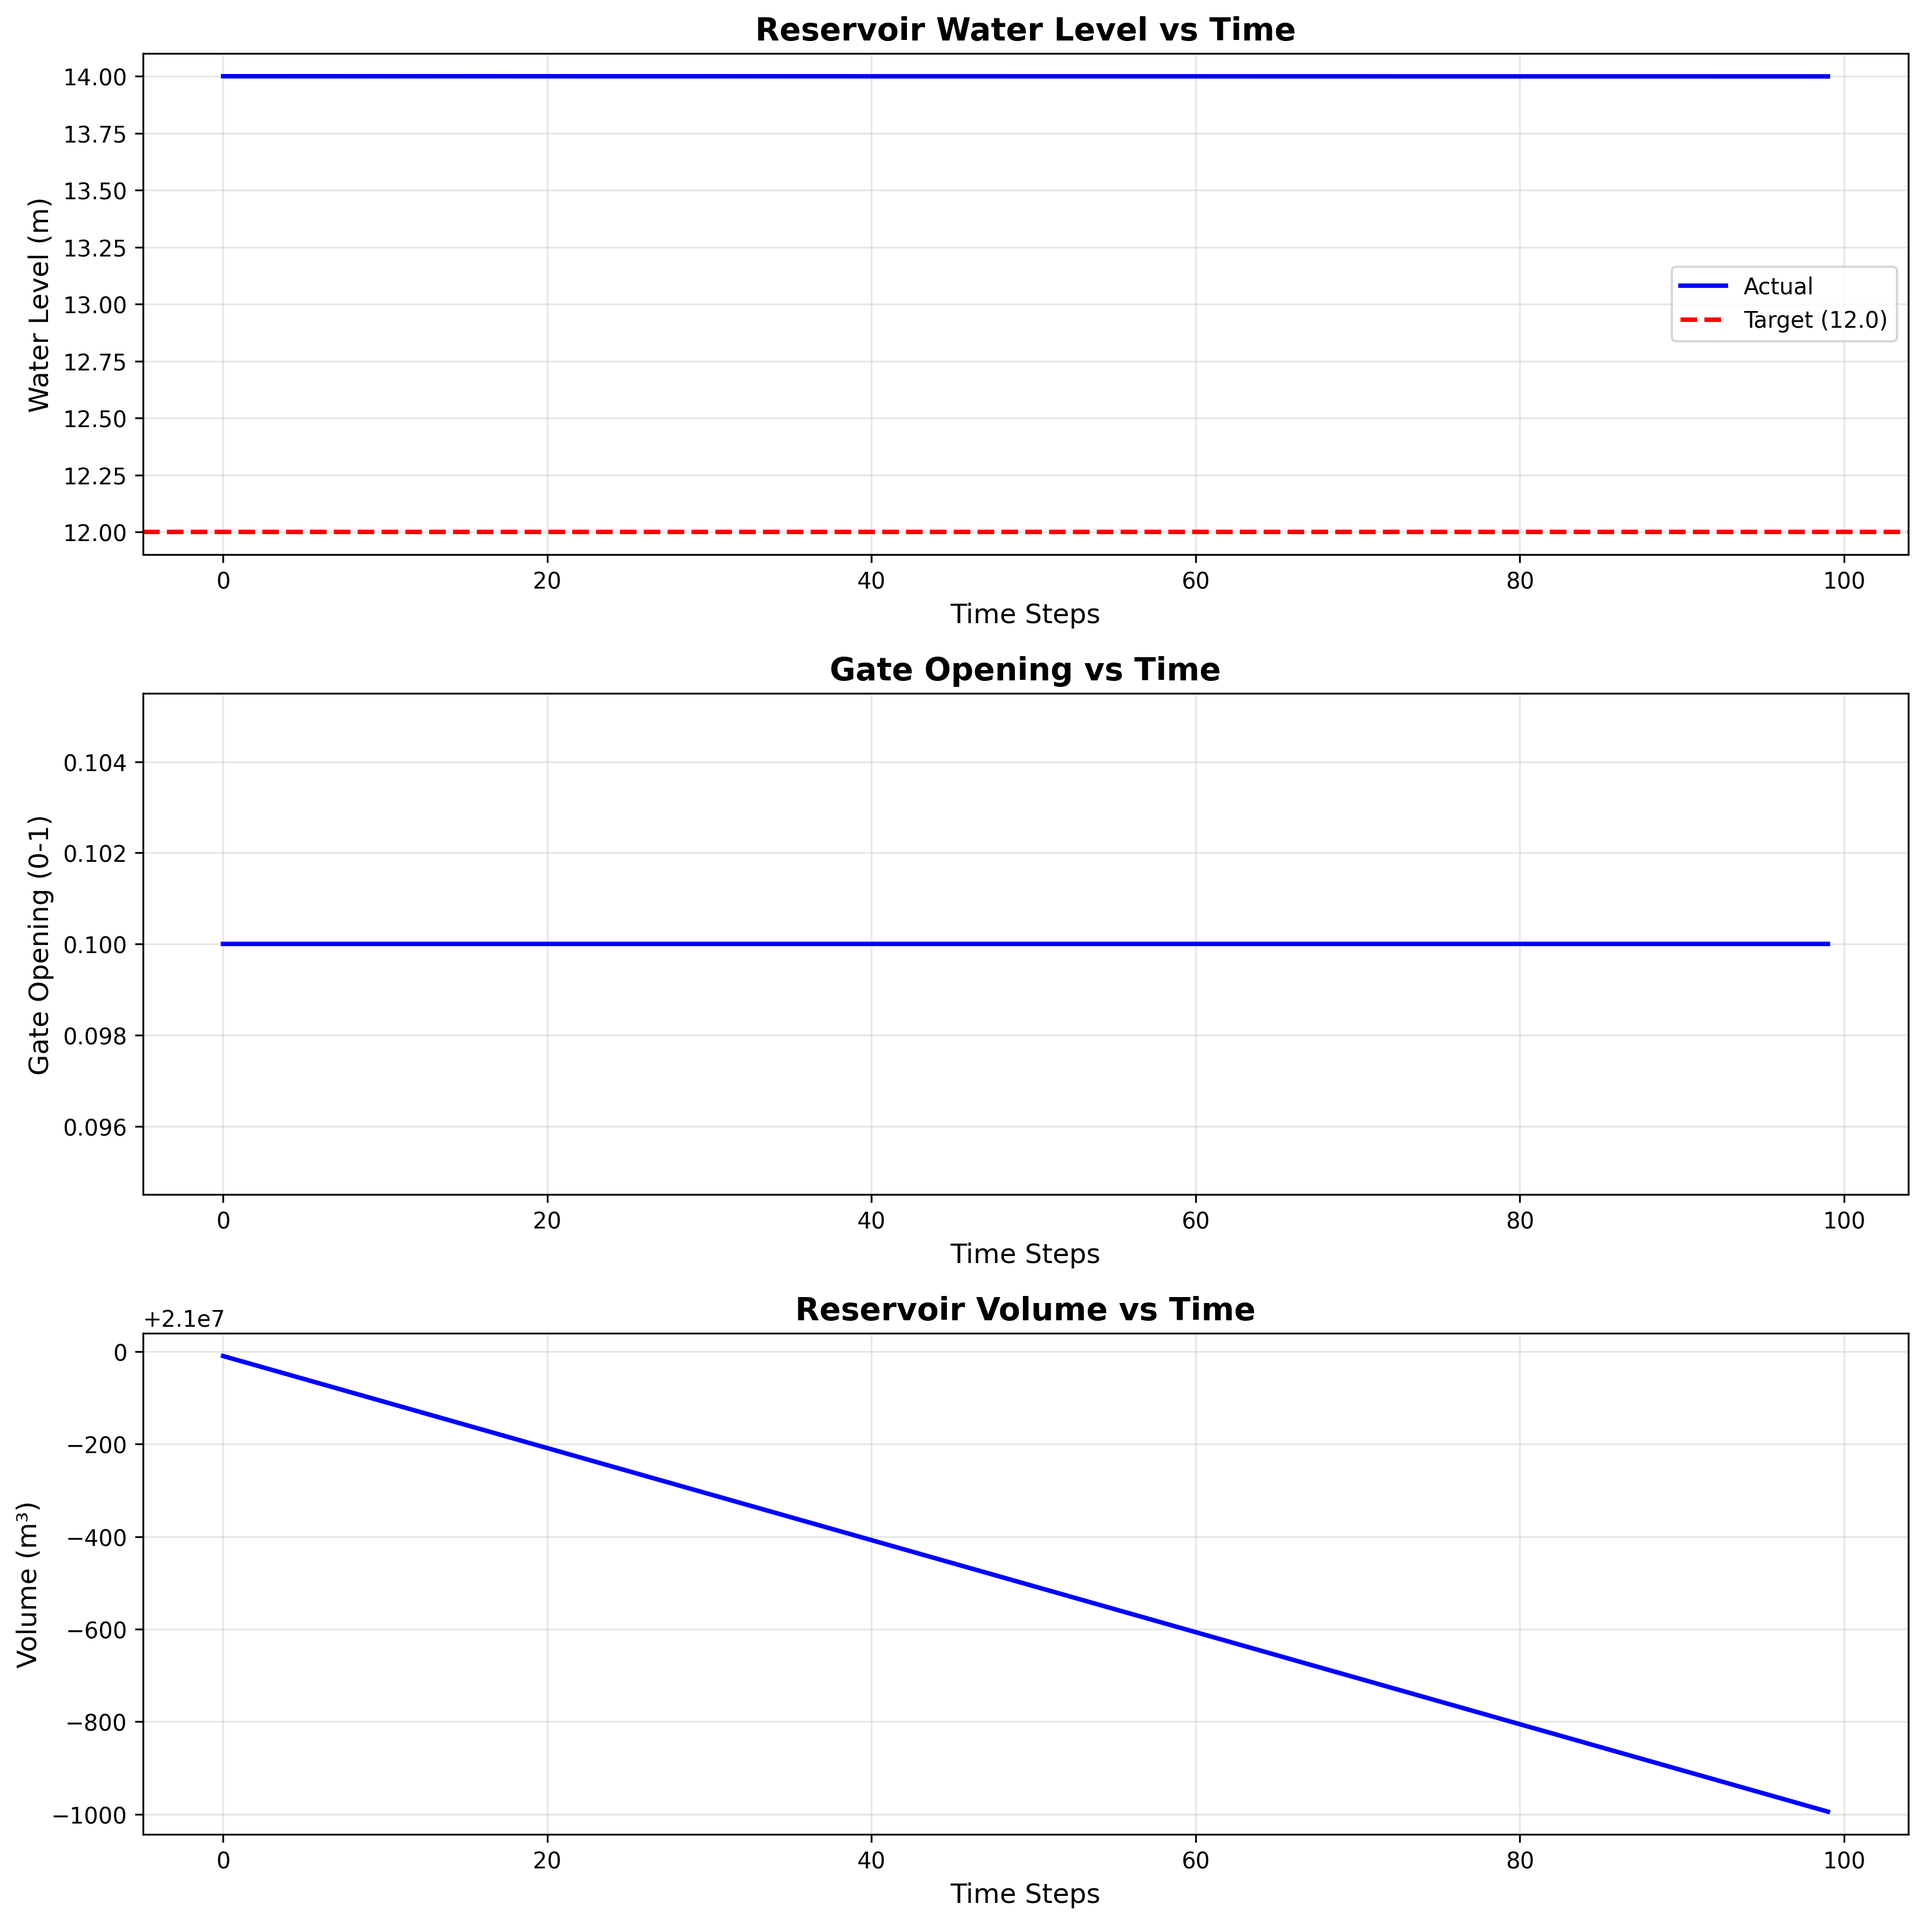
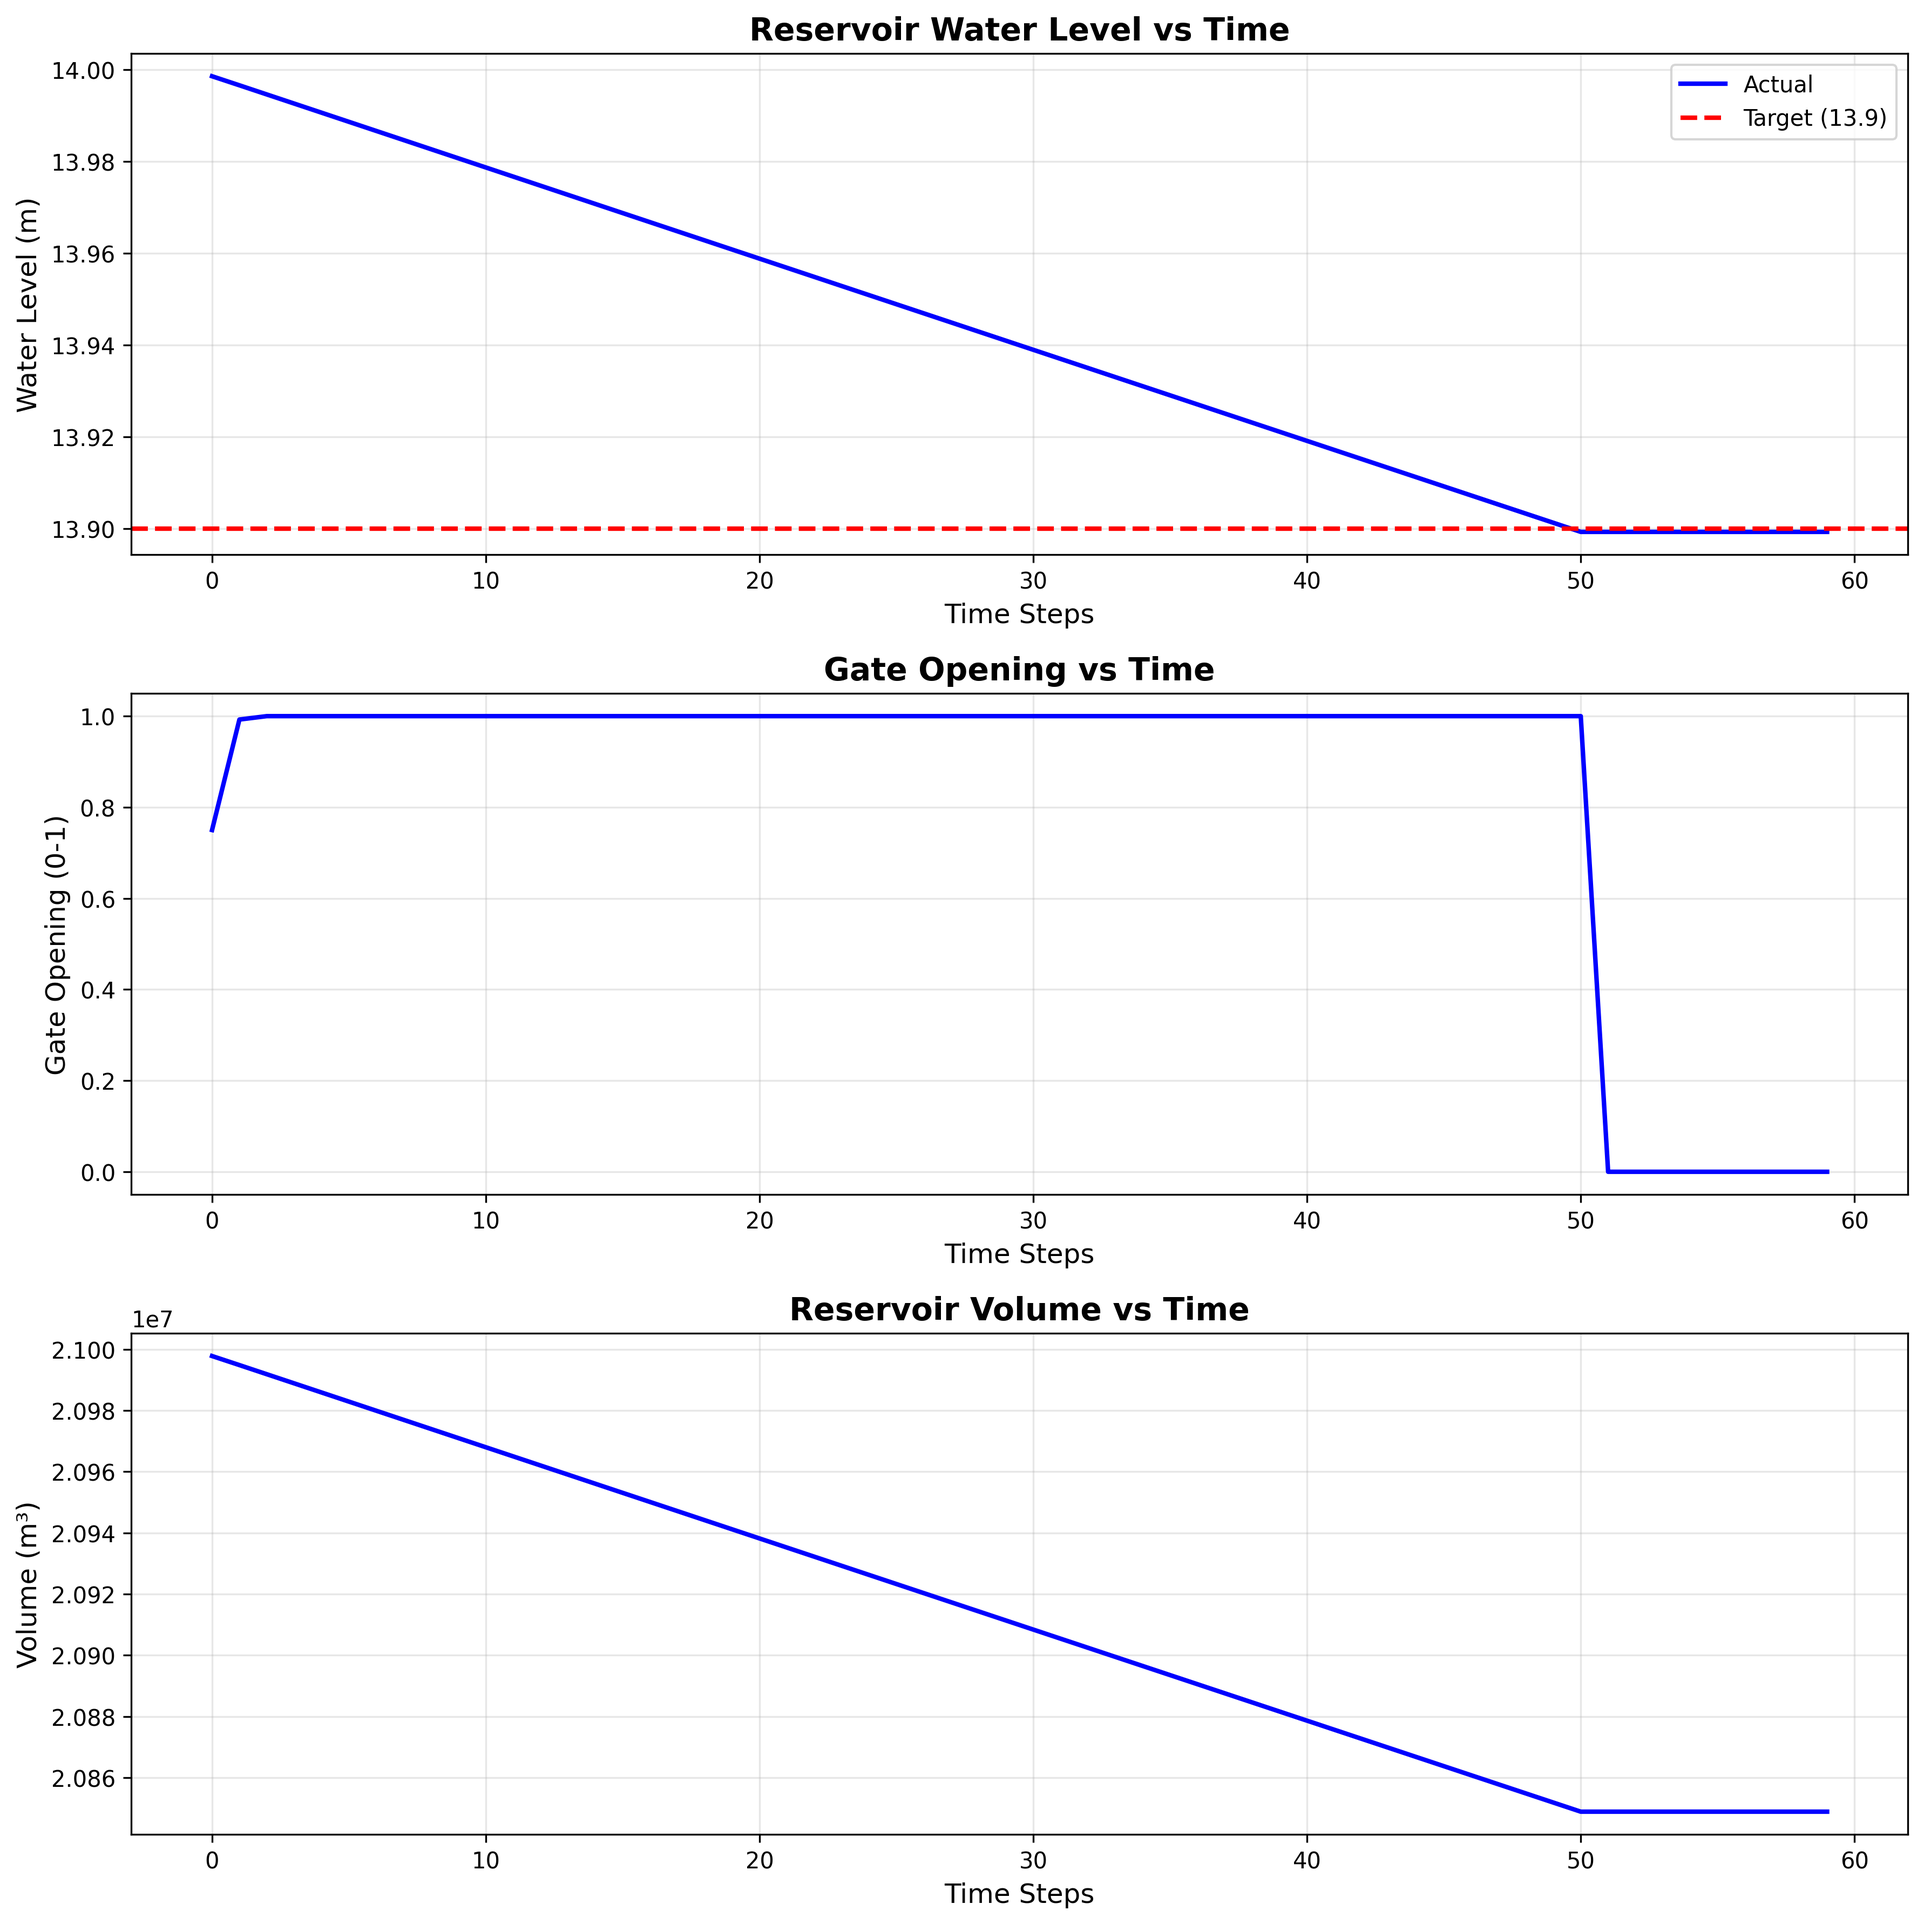
run_fig_1.3测试

diff --git a/examples/agent_based/03_event_driven_agents/run_config.py b/examples/agent_based/03_event_driven_agents/run_config.py
@@ -311,8 +311,8 @@ def main():
     
     print("\n=== Multi-Agent System Example Complete ===")
     print(f"Configuration: {config_path}")
-    print(f"Simulation duration: {config['simulation']['duration']} seconds")
-    print(f"Time step: {config['simulation']['dt']} seconds")
+    print(f"Simulation end time: {config['simulation']['end_time']} seconds")
+    print(f"Time step: {config['simulation']['time_step']} seconds")
     
 if __name__ == "__main__":
     main()
